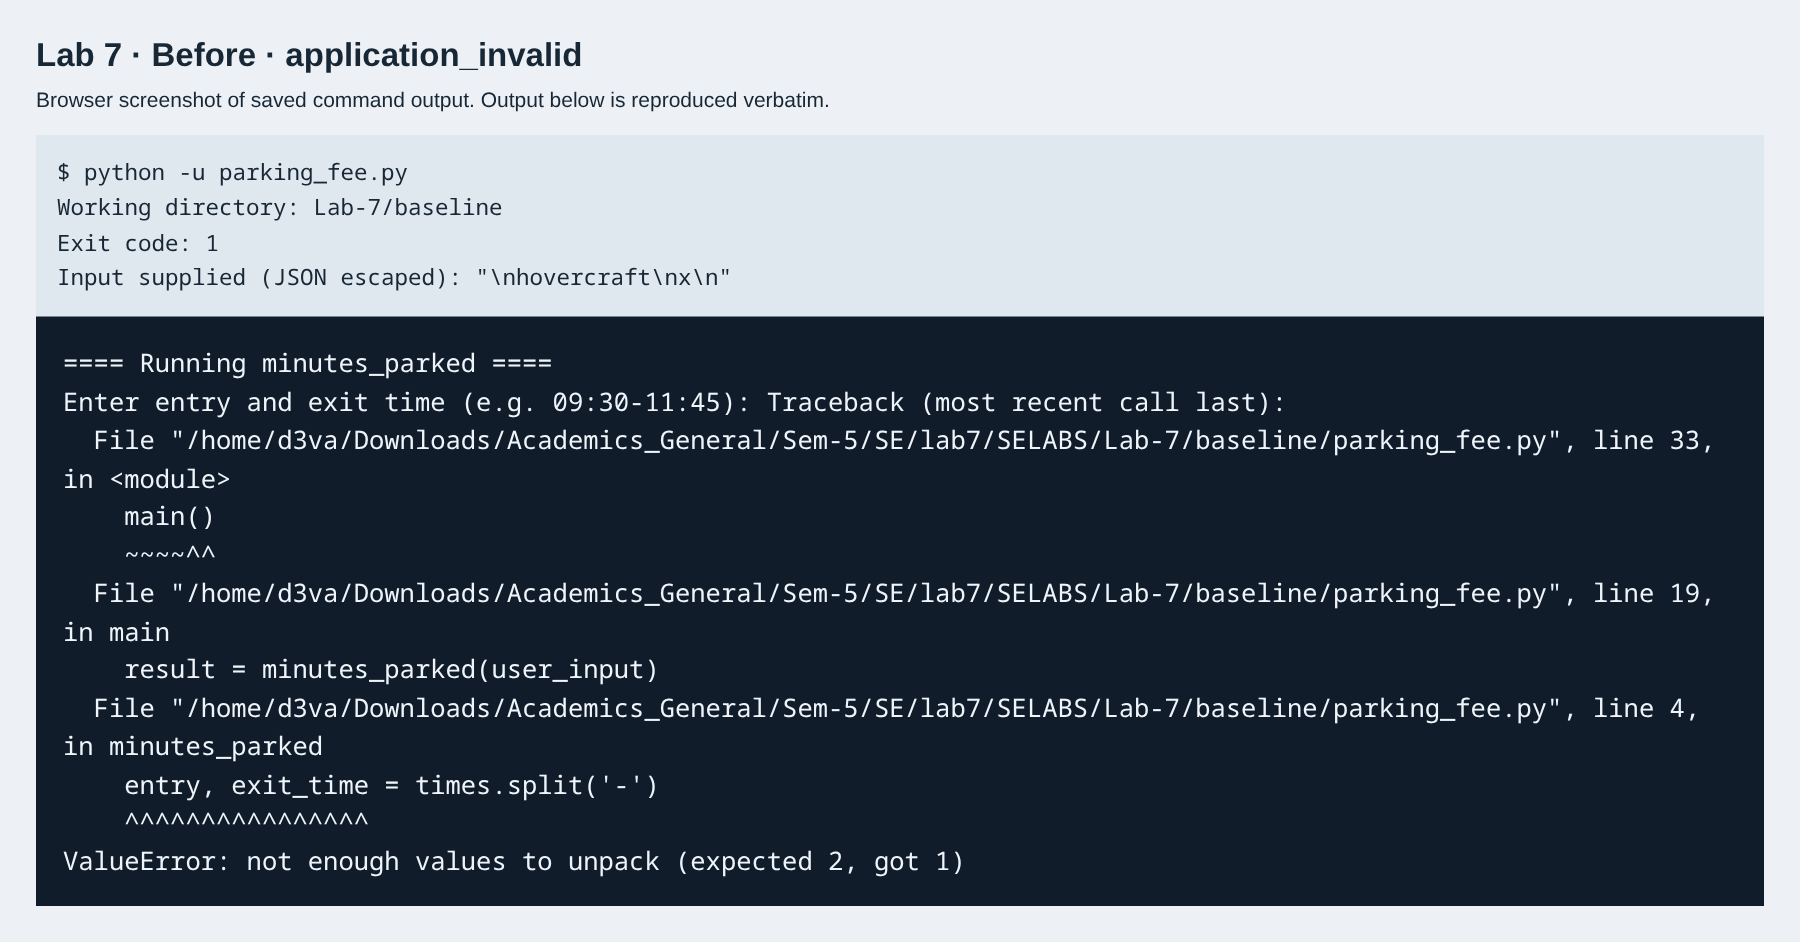
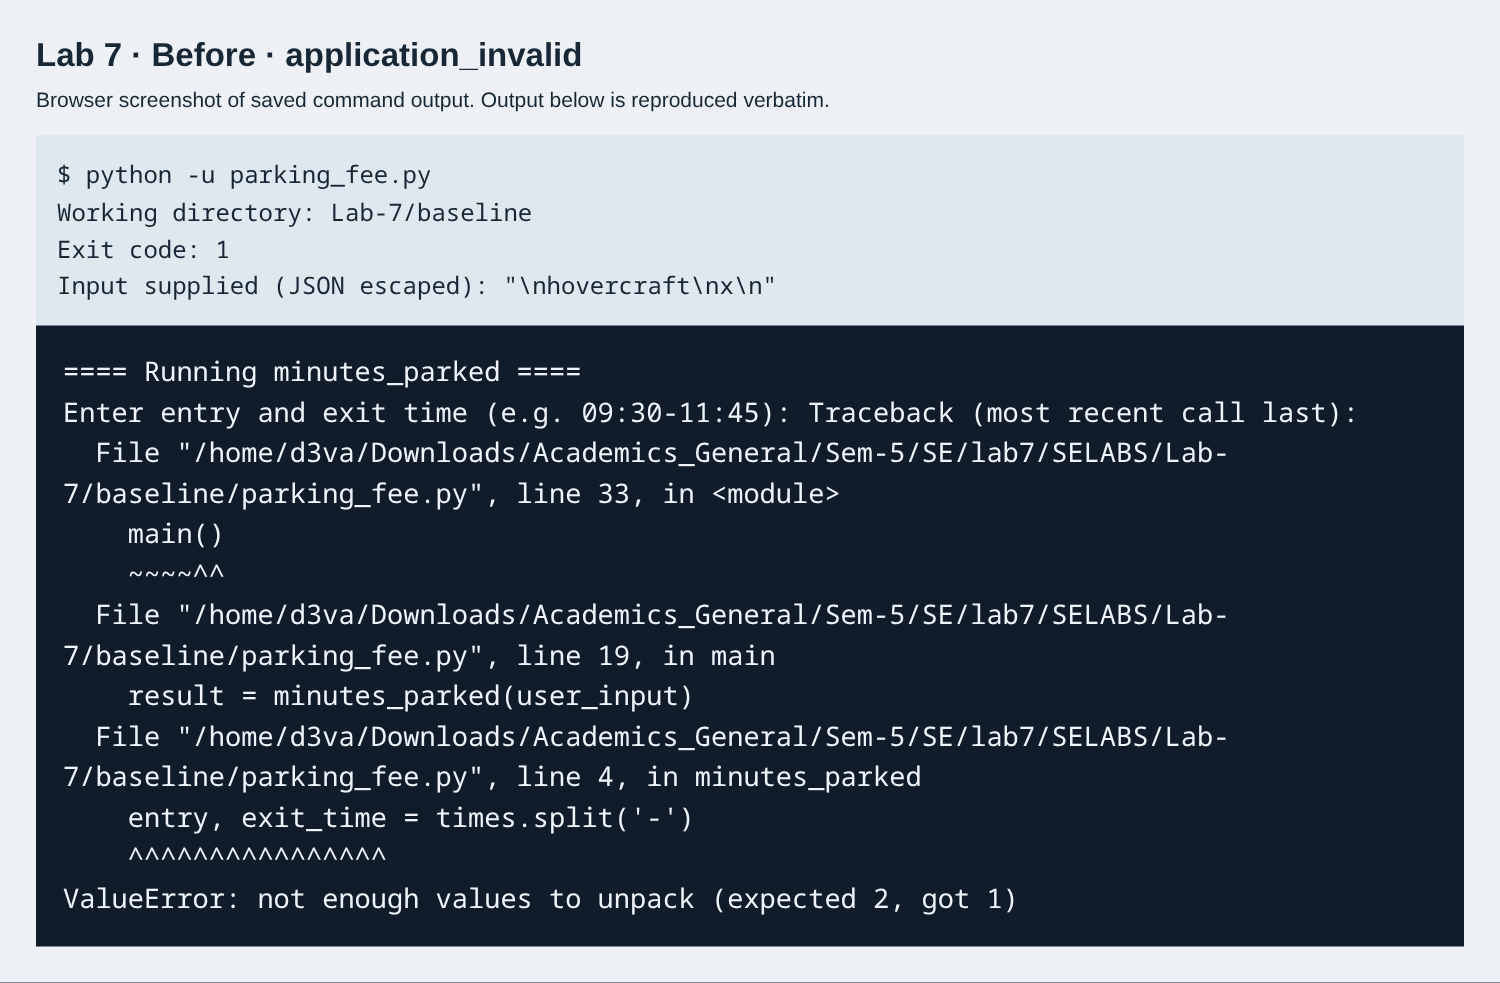
Record passing fuzz tests and before-and-after application evidence

diff --git a/Lab-7/tools/capture_evidence.py b/Lab-7/tools/capture_evidence.py
@@ -3,6 +3,7 @@
 import argparse
 from datetime import datetime, timezone
 import hashlib
+from importlib.metadata import version
 import json
 from pathlib import Path
 import shlex
@@ -37,7 +38,10 @@ def capture(phase):
          1 if phase == "before" else 0),
     ]
     if phase == "after":
-        cases.append(("all_tests", ["-m", "pytest", "-q", "--color=no"], None, 0))
+        cases.extend([
+            ("all_tests", ["-m", "pytest", "-q", "--color=no"], None, 0),
+            ("counterexamples", ["tools/replay_counterexamples.py"], None, 0),
+        ])
     records = []
     for name, args, stdin, expected_exit in cases:
         started = datetime.now(timezone.utc).isoformat()
@@ -47,7 +51,7 @@ def capture(phase):
             text=True, timeout=180, check=False,
         )
         output = completed.stdout
-        (output_dir / f"{name}.txt").write_text(output, encoding="utf-8")
+        (output_dir / f"{name}.txt").write_text(output, encoding="utf-8", newline="")
         records.append({
             "name": name,
             "started_utc": started,
@@ -61,12 +65,24 @@ def capture(phase):
         print(f"{phase}/{name}: exit {completed.returncode} (expected {expected_exit})")
         if completed.returncode != expected_exit:
             raise SystemExit(f"Unexpected outcome for {name}; inspect saved output")
+    metadata = {
+        "python": sys.version,
+        "dependencies": {name: version(name) for name in ["hypothesis", "pytest"]},
+        "phase": phase,
+        "application_sha256": hashlib.sha256(
+            (cwd / "parking_fee.py").read_bytes()
+        ).hexdigest(),
+        "tests_sha256": hashlib.sha256(
+            (ROOT / "test_parking_fee.py").read_bytes()
+        ).hexdigest(),
+        "commands": records,
+    }
+    if phase == "after":
+        metadata["cli_tests_sha256"] = hashlib.sha256(
+            (ROOT / "test_cli.py").read_bytes()
+        ).hexdigest()
     (output_dir / "manifest.json").write_text(
-        json.dumps({"python": sys.version, "phase": phase,
-                    "application_sha256": hashlib.sha256((cwd / "parking_fee.py").read_bytes()).hexdigest(),
-                    "tests_sha256": hashlib.sha256((ROOT / "test_parking_fee.py").read_bytes()).hexdigest(),
-                    "commands": records},
-                   indent=2) + "\n", encoding="utf-8",
+        json.dumps(metadata, indent=2) + "\n", encoding="utf-8",
     )
 
 

diff --git a/Lab-7/tools/render_screenshots.py b/Lab-7/tools/render_screenshots.py
@@ -21,7 +21,7 @@ def render(phase):
     target_dir.mkdir(exist_ok=True)
     with sync_playwright() as playwright:
         browser = playwright.chromium.launch()
-        page = browser.new_page(viewport={"width": 1200, "height": 200},
+        page = browser.new_page(viewport={"width": 1000, "height": 200},
                                 device_scale_factor=1.5)
         for record in manifest["commands"]:
             name = record["name"]
@@ -43,10 +43,10 @@ def render(phase):
                 .note {{ font-size: 14px; margin: 0 0 16px; }}
                 .metadata {{ padding: 14px; background: #dfe7ef;
                              white-space: pre-wrap; overflow-wrap: anywhere;
-                             font: 15px/1.55 monospace; }}
+                             font: 16px/1.55 monospace; }}
                 pre {{ margin: 0; padding: 18px; background: #101c2a;
                        color: #eef4fa; white-space: pre-wrap;
-                       overflow-wrap: anywhere; font: 17px/1.5 monospace; }}
+                       overflow-wrap: anywhere; font: 18px/1.5 monospace; }}
                 </style></head><body>
                 <h1>Lab 7 · {html.escape(phase.title())} · {html.escape(name)}</h1>
                 <p class="note">Browser screenshot of saved command output.
